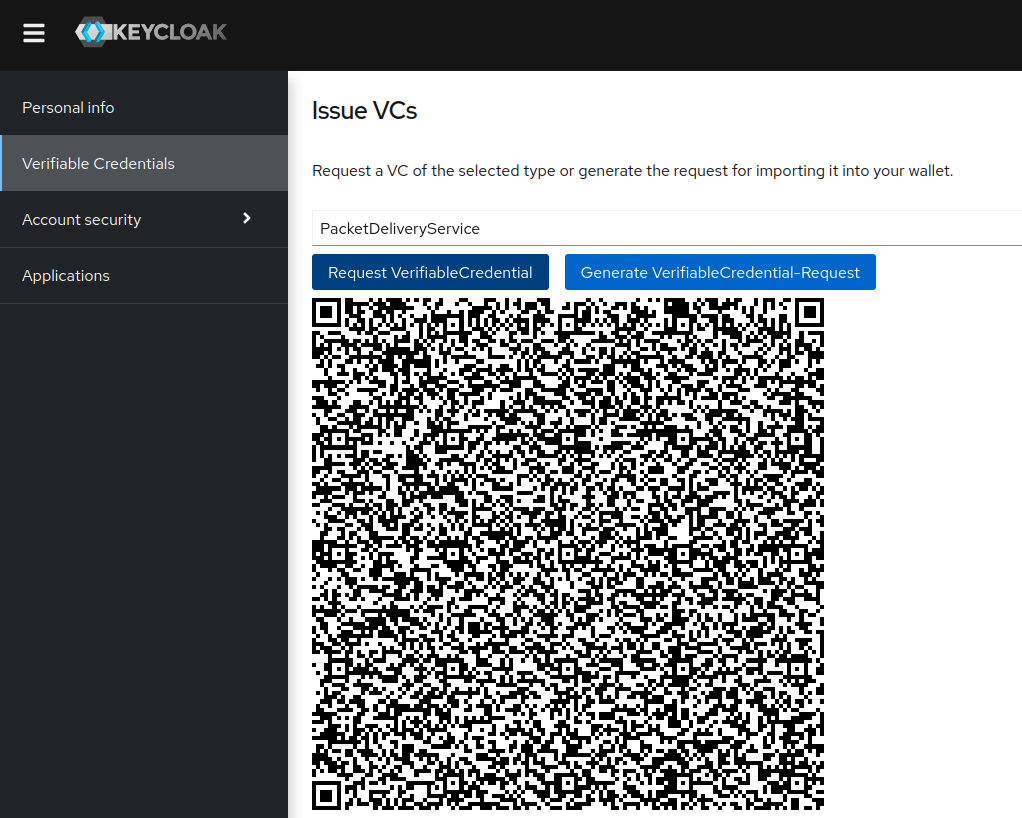
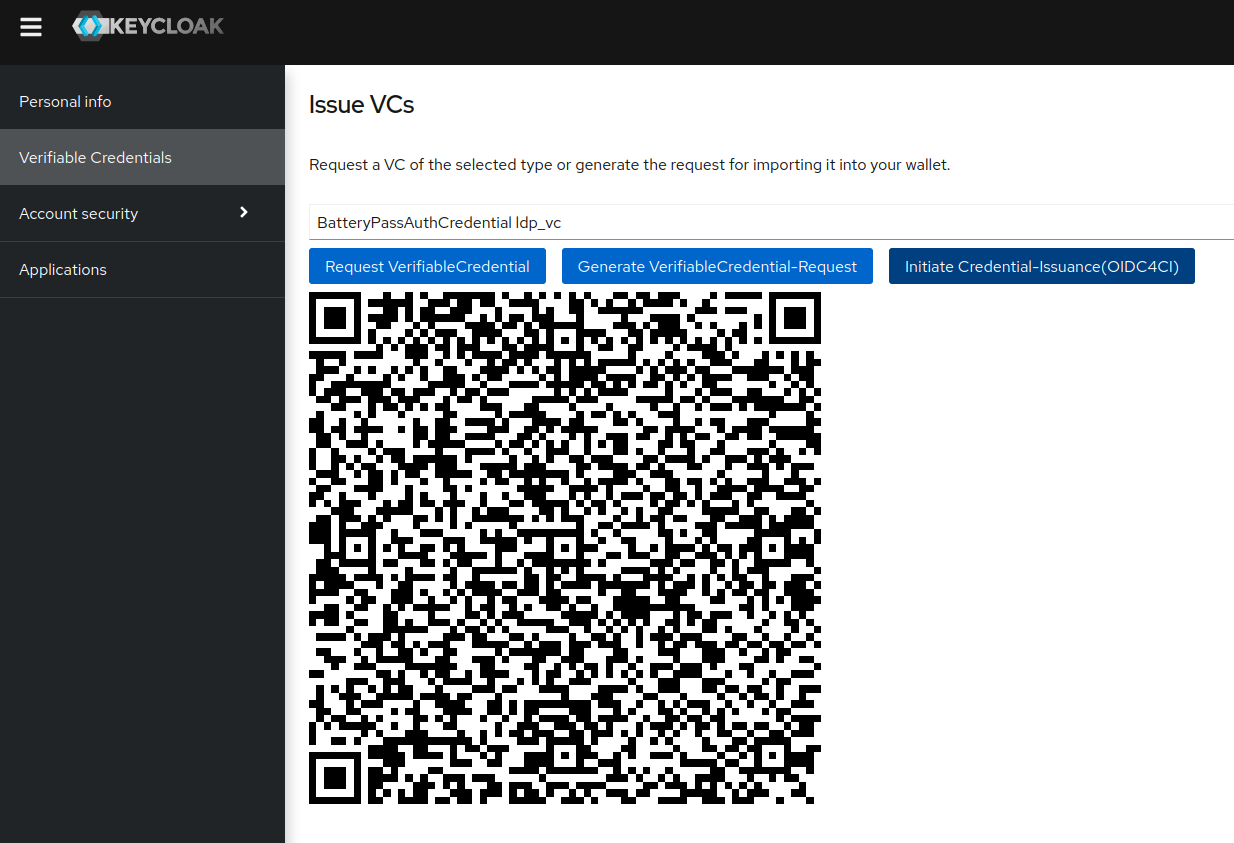
doc

diff --git a/README.md b/README.md
@@ -6,54 +6,65 @@
 [![Integration-Test](https://github.com/FIWARE/keycloak-vc-issuer/actions/workflows/integration-test.yaml/badge.svg)](https://github.com/FIWARE/keycloak-vc-issuer/actions/workflows/integration-test.yaml)
 [![Unit-Test](https://github.com/FIWARE/keycloak-vc-issuer/actions/workflows/test.yaml/badge.svg)](https://github.com/FIWARE/keycloak-vc-issuer/actions/workflows/test.yaml)
 
-A plugin for [Keycloak](https://www.keycloak.org/) to issue [VerifiableCredentials](https://www.w3.org/TR/vc-data-model/).
+A plugin for [Keycloak](https://www.keycloak.org/) to
+issue [VerifiableCredentials](https://www.w3.org/TR/vc-data-model/).
 
 ## Compatibility
 
 The plugin is developed with the [20.0.3 libraries](https://github.com/keycloak/keycloak/tree/20.0.3) and tested against
-all Keycloak Minor-Releases >=18.0.0. Please check the [Compatibility-Matrix](./doc/compatibility/compatibility.md) for more information. 
-The matrix gets updated every night.
-
-## OpenID for Verifiable Credential Issuance 
-
-The plugin targets compliance with the [OpenID for Verifiable Credential Issuance(OIDC4VCI)](https://openid.net/specs/openid-4-verifiable-credential-issuance-1_0.html) standard, 
-in order to be compatible with Wallets complying with the [European Digital Identity Wallet Architecture and Reference Framework](https://digital-strategy.ec.europa.eu/en/library/european-digital-identity-wallet-architecture-and-reference-framework) and
-any other standard-conformant Wallet-implementation. It currently supports the following parts of the spec:
-
-- [3.5 Pre-Authorized Code Flow](https://openid.net/specs/openid-4-verifiable-credential-issuance-1_0.html#name-pre-authorized-code-flow):
-  - in order to securely issue credentials, the plugin can offer pre-authorized authorization codes to authenticated users
-  - the code is connected to the user-session that requested the [Credential Offer](https://openid.net/specs/openid-4-verifiable-credential-issuance-1_0.html#name-credential-offer)
-  - the code can be exchanged for an access-token through a token-endpoint as described in [RFC 6749](https://www.rfc-editor.org/info/rfc6749)
-- [4. Credential Offer Endpoint](https://openid.net/specs/openid-4-verifiable-credential-issuance-1_0.html#name-credential-offer-endpoint):
-  - to initiate standard conformant issuance, an endpoint to retrieve [Credential Offer](https://openid.net/specs/openid-4-verifiable-credential-issuance-1_0.html#name-credential-offer) is provided
-  - the endpoint is available at ```/realms/{realm-id}/verifiable-credential/{issuer-did}/credential-offer``` and accepts the type and format to be offered
-  - see [api-spec](./api/api.yaml) for more
-- [6. Token Endpoint](https://openid.net/specs/openid-4-verifiable-credential-issuance-1_0.html#name-token-endpoint)
-  - supports token exchange through the pre-authorized flow
-  - available per issuer at ```/realms/{realm-id}/verifiable-credential/{issuer-did}/token```
-  - see [api-spec](./api/api.yaml) for more
-  - pin-check is currently not supported
-- [7. Credential Endpoint](https://openid.net/specs/openid-4-verifiable-credential-issuance-1_0.html#name-credential-endpoint)
-  - provides a valid credential, according to the requested type and format
-  - currently supports jwt_vc_json, jwt_vc_json-ld, ldp_vc and for backward-compatibility jwt_vc(which defaults to jwt_vc_json)
-  - does not support binding to the enduser(e.g. via proof-parameter), yet
-- [10.2. Credential Issuer Metadata](https://openid.net/specs/openid-4-verifiable-credential-issuance-1_0.html#name-credential-issuer-metadata)
-  - provides the metadata for the issuer
+all Keycloak Minor-Releases >=18.0.0. Please check the [Compatibility-Matrix](./doc/compatibility/compatibility.md) for
+more information. The matrix gets updated every night.
 
 ## Functionality
 
-The VC-Issuer plugin provides an integration [VerifiableCredentials](https://www.w3.org/TR/vc-data-model/)
+The VC-Issuer plugin provides an integration for [VerifiableCredentials](https://www.w3.org/TR/vc-data-model/)
 into [Keycloak](https://www.keycloak.org/). It allows to manage potential receivers of VerifiableCredentials
 as [SIOP-2 Clients](https://openid.net/specs/openid-connect-self-issued-v2-1_0.html), allowing to manage users and roles
 in the well-known Keycloak way. In addition to that, it provides the endpoints for (authenticated) users to receive
-VerifiableCredentials for their account. To integrate with the Account-Console frontend, the SIOP-2 Theme is included.
+VerifiableCredentials for their account. To integrate with the Account-Console frontend, a theme(```siop-2```) is
+included.
+
+### OpenID for Verifiable Credential Issuance
+
+The plugin targets compliance with
+the [OpenID for Verifiable Credential Issuance(OIDC4VCI)](https://openid.net/specs/openid-4-verifiable-credential-issuance-1_0.html)
+standard, in order to be compatible with Wallets complying with
+the [European Digital Identity Wallet Architecture and Reference Framework](https://digital-strategy.ec.europa.eu/en/library/european-digital-identity-wallet-architecture-and-reference-framework)
+and any other standard-conformant Wallet-implementation. It currently supports the following parts of the spec:
+
+- [3.5 Pre-Authorized Code Flow](https://openid.net/specs/openid-4-verifiable-credential-issuance-1_0.html#name-pre-authorized-code-flow):
+    - in order to securely issue credentials, the plugin can offer pre-authorized authorization codes to authenticated
+      users
+    - the code is connected to the user-session that requested
+      the [Credential Offer](https://openid.net/specs/openid-4-verifiable-credential-issuance-1_0.html#name-credential-offer)
+    - the code can be exchanged for an access-token through a token-endpoint as described
+      in [RFC 6749](https://www.rfc-editor.org/info/rfc6749)
+- [4. Credential Offer Endpoint](https://openid.net/specs/openid-4-verifiable-credential-issuance-1_0.html#name-credential-offer-endpoint):
+    - to initiate standard conformant issuance, an endpoint to
+      retrieve [Credential Offer](https://openid.net/specs/openid-4-verifiable-credential-issuance-1_0.html#name-credential-offer)
+      is provided
+    - the endpoint is available at ```/realms/{realm-id}/verifiable-credential/{issuer-did}/credential-offer``` and
+      accepts the type and format to be offered
+    - see [api-spec](./api/api.yaml) for more
+- [6. Token Endpoint](https://openid.net/specs/openid-4-verifiable-credential-issuance-1_0.html#name-token-endpoint)
+    - supports token exchange through the pre-authorized flow
+    - available per issuer at ```/realms/{realm-id}/verifiable-credential/{issuer-did}/token```
+    - see [api-spec](./api/api.yaml) for more
+    - pin-check is currently not supported
+- [7. Credential Endpoint](https://openid.net/specs/openid-4-verifiable-credential-issuance-1_0.html#name-credential-endpoint)
+    - provides a valid credential, according to the requested type and format
+    - currently supports jwt_vc_json, jwt_vc_json-ld, ldp_vc and for backward-compatibility jwt_vc(which defaults to
+      jwt_vc_json)
+    - does not support binding to the enduser(e.g. via proof-parameter), yet
+- [10.2. Credential Issuer Metadata](https://openid.net/specs/openid-4-verifiable-credential-issuance-1_0.html#name-credential-issuer-metadata)
+    - provides the metadata for the issuer
 
 ## Dependencies & Configuration
 
 In order to provide the capabilities of issuing VerifiableCredentials and handling DIDs, Keycloak relies
-on [Walt-ID](https://github.com/walt-id/waltid-ssikit)
-as a downstream component. The [integration-test setup](src/test/k3s) provides an example on how to run and integrate
-it. The configuration is provided via environment variables:
+on [Walt-ID](https://github.com/walt-id/waltid-ssikit) as a downstream component.
+The [integration-test setup](src/test/k3s) provides an example on how to run and integrate it. The configuration is
+provided via environment variables:
 
 |Name| Description                                                                          | Default    |
 |----|--------------------------------------------------------------------------------------|------------|
@@ -67,14 +78,21 @@ it. The configuration is provided via environment variables:
 
 ### Api
 
-The plugin provides two endpoints through its API ([see OpenApi-Doc](./doc/api.yaml)) as a realm resource:
+The plugin provides multiple endpoints through its API ([see OpenApi-Doc](./doc/api.yaml)) as a realm resource. They
+seperate into two categories. See the [see OpenApi-Doc](./doc/api.yaml) for detailed information and examples:
 
-- /realms/{realm}/types - returns the list of types supported by the SIOP-2 clients, that can be requested as a
-  VerifiableCredential
-- /realms/{realm}/verifiable-credential - returns the credential requested in the types parameter
+- [OpenID for Verifiable Credential Issuance](https://openid.net/specs/openid-4-verifiable-credential-issuance-1_0.html)
+  compatible endpoints - tag ```OIDC4VCI```
+- convenience endpoints to allow a more comfortable frontend integration - tag ```IssuerPlugin```
 
-The APIs are only available to authenticated and authorized users. In order to support retrieval by wallets, the
-requests can not only be authorized via ```Authorization```-header, but also via the ```token```-parameter.
+Most endpoints are only available to authenticated users, the following three informatory endpoints are publicly
+available:
+
+- /{issuerDid}/.well-known/openid-credential-issuer - provides the issuer metadata in an OIDC4VCI compliant way
+- /{issuerDid}/.well-known/openid-configuration - provides the openid-configuration in an OIDC4VCI compliant(and
+  therefor als [RFC8414](https://www.rfc-editor.org/info/rfc8414) compliant) way
+- /issuer - provides just the did of the configured issuer, that can be used to construct the other paths. Provided to
+  ease frontend integrations
 
 ### Protocol
 
@@ -83,18 +101,64 @@ integration into the Admin-Console is still open, the clients need to be created
 look like:
 
 ```json
-{  
+{
   "clientId": "did:key:z6Mkv4Lh9zBTPLoFhLHHMFJA7YAeVw5HFYZV8rkdfY9fNtm3",
   "enabled": true,
   "description": "Client to receive Verifiable Credentials.",
   "protocol": "SIOP-2",
-  "attributes": {
-    "expiryInMin": "3600",
-    "supportedVCTypes": "BatteryPassAuthCredential"
-  }
+  "supportedVCTypes": [
+    {
+      "type": "PacketDeliveryService",
+      "format": "ldp_vc"
+    },
+    {
+      "type": "PacketDeliveryService",
+      "format": "jwt_vc_json"
+    }
+  ]
 }
 ```
-Once the client is created, roles and role-assignemnts can be managed the same way as for every other type, through the API or the Admin-Console.
+
+Alternatively, the client can also be directly create through the clients api(for example when using declarative
+configuration via [keycloak-config-cli](https://github.com/adorsys/keycloak-config-cli), find an
+example [here](https://github.com/FIWARE-Ops/batterypass-demonstrator/tree/main/applications/keycloak-one)):
+
+```json
+ {
+  "clientId": "did:key:z6MkigCEnopwujz8Ten2dzq91nvMjqbKQYcifuZhqBsEkH7g",
+  "enabled": true,
+  "description": "Client to receive Verifiable Credentials",
+  "surrogateAuthRequired": false,
+  "alwaysDisplayInConsole": false,
+  "clientAuthenticatorType": "client-secret",
+  "defaultRoles": [],
+  "redirectUris": [],
+  "webOrigins": [],
+  "notBefore": 0,
+  "bearerOnly": false,
+  "consentRequired": false,
+  "standardFlowEnabled": true,
+  "implicitFlowEnabled": false,
+  "directAccessGrantsEnabled": false,
+  "serviceAccountsEnabled": false,
+  "publicClient": false,
+  "frontchannelLogout": false,
+  "protocol": "SIOP-2",
+  "attributes": {
+    "expiryInMin": "3600",
+    // attributes are of type "string": "string", thus we provide the prefixed-type, together with a comma-seperated list of formats 
+    "vctypes_BatteryPassAuthCredential": "ldp_vc,jwt_vc_json"
+  },
+  "authenticationFlowBindingOverrides": {},
+  "fullScopeAllowed": true,
+  "nodeReRegistrationTimeout": -1,
+  "defaultClientScopes": [],
+  "optionalClientScopes": []
+}
+```
+
+Once the client is created, roles and role-assignemnts can be managed the same way as for every other type, through the
+API or the Admin-Console.
 
 ## Demo
 
@@ -109,7 +173,16 @@ url --location --request POST '<KEYCLOAK_HOST>/realms/master/clients-registratio
     // did of the client
     "clientDid": "did:key:z6MkmxVQztpb1JpAEgfJaqFN5g7CcJFPSMsJ1S6PiBjxR7Vxp",
     // type of the supported credentials
-    "supportedVCTypes": "PacketDeliveryService",
+    "supportedVCTypes": [
+        {
+          "type": "PacketDeliveryService",
+          "format": "ldp_vc"
+        },
+        {
+          "type": "PacketDeliveryService",
+          "format": "jwt_vc_json"
+        }
+    ],
     // 'traditional' description
     "description": "Client to receive Verifiable Credentials.",
     // max lifetime of the VC
@@ -119,7 +192,6 @@ url --location --request POST '<KEYCLOAK_HOST>/realms/master/clients-registratio
         "a":"b",
         "c":"d"
     }
-
 }'
 ```
 
@@ -139,13 +211,24 @@ Get a VC:
 
 ![get-vc](doc/vc.png)
 
+The frontend currently supports three types of QR-Codes:
+
+- "Request VerifiableCredential" - will provide the credential of the requested type directly as json
+- "Generate VerifiableCredential-Request" - will provide a request to be used for retrieving the credential, can f.e. be
+  used with the [demo-wallet](https://github.com/hesusruiz/VCWallet)
+- "Initiate Credential-Issuance(OIDC4VCI)" - will provide a URI-formatted, OIDC4VCI compatible credential-offer, that
+  can be used by compliant wallets.
+
 ## Deployment
 
 The VC Issuer is a fully-self-contained provider, thus the jar-file only has to be added to the ```providers```-folder
 of Keycloak(typically under ```/opt/keycloak/providers```). Keycloak will automatically pick-up the provider at
-start-time. The plugin is available as jar-file through [the github-releases](https://github.com/wistefan/keycloak-vc-issuer/releases) or
-as a [container at quay.io](https://quay.io/repository/fiware/keycloak-vc-issuer). The container can for example be used 
-as an init-container, to copy the jar file into a shared folder and make it available for Keycloak.
+start-time. The plugin is available as jar-file
+through [the github-releases](https://github.com/wistefan/keycloak-vc-issuer/releases) or as
+a [container at quay.io](https://quay.io/repository/fiware/keycloak-vc-issuer). The container can for example be used as
+an init-container, to copy the jar file into a shared folder and make it available for Keycloak. See
+the [k3s-setup](./src/test/k3s)
+or [this one](https://github.com/FIWARE-Ops/batterypass-demonstrator/tree/main/applications/keycloak-one) as examples.
 
 To have the account-console integration, the ```SIOP-2```-theme has to be enabled for the realm:
 
@@ -154,3 +237,45 @@ To have the account-console integration, the ```SIOP-2```-theme has to be enable
 In addition to Keycloak, an installation of [WaltID-SSIKit](https://github.com/walt-id/waltid-ssikit) needs to be
 provided. Keycloak uses it, to create the actual credentials. It can f.e. be deployed
 via [Helm-Chart](https://github.com/i4Trust/helm-charts/tree/main/charts/vcwaltid).
+
+## Testing
+
+### Unit-Testing
+
+The unit-tests are located at [src/test/java](./src/test/java) and are postfixed with ```Test```. The tests
+use [Junit5](https://junit.org/junit5/docs/current/user-guide/)
+and [Mockito](https://site.mockito.org/) and will cover the essential logic inside the plugin.
+
+### Integration-Testing
+
+Since the plugin has to work as part of [Keycloak]((https://www.keycloak.org/)) and does
+use [WaltId](https://docs.walt.id/v/ssikit/ssi-kit/readme)
+as a downstream dependency, integration-test are essential. The tests use a [k3s](https://k3s.io/) setup, integrated
+through the [k3s-maven-plugin](https://github.com/kokuwaio/k3s-maven-plugin), which provides a preconfigured Keycloak
+and WaltId environment. The manifests can be found at [src/test/k3s](./src/test/k3s). The test implementations are
+postfixed with ```IntegrationTest```. To run the full integration test suite, use the maven
+profile ```integration-test```:
+
+```shell
+mvn clean install -Pintegration-test
+```
+
+This will automatically build and deploy the current development, bind selected services to localhost and run all
+integration-tests. To support local development, the same test-setup can be run locally via:
+
+```shell
+mvn clean install -Pdev
+```
+
+This will not tear-down the environement after the excution, thus can be used for testing/debugging from the IDE.
+See [pom.xml](pom.xml)-Profile ```dev```-```k3s-maven-plugin``` for the available ports.
+
+### Compatibility-Testing
+
+To ensure compatibility with released Keycloak-Versions, the integration-tests support exectuion with different
+Keycloak-Versions. In order to execute the tests with a specific version, provide either the
+property ```keycloak.version```(which has to be a valid tag from the [official quay-image](quay.io/keycloak/keycloak))
+or ```keycloak.image```. Be aware that the configuration might differ for different builds of Keycloak, thus alternative
+images might require some additional changes in the k3s-setup. The compatibility tests are executed as part of the
+pipeline and additionally once every night. The results can be found
+at [the compatibility-matrix](./doc/compatibility/compatibility.md)
